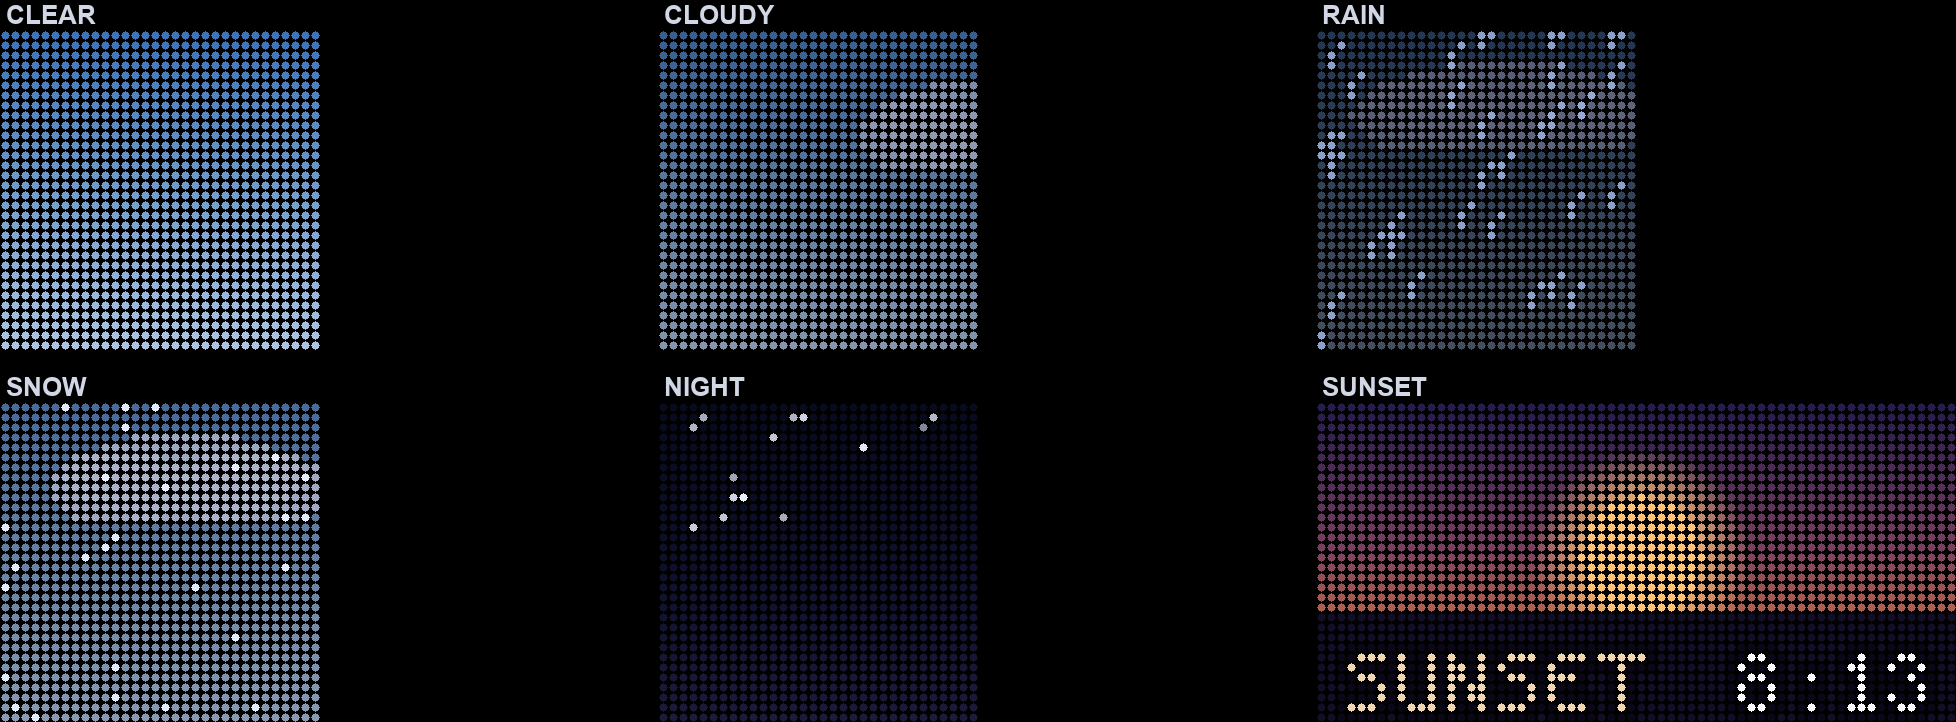
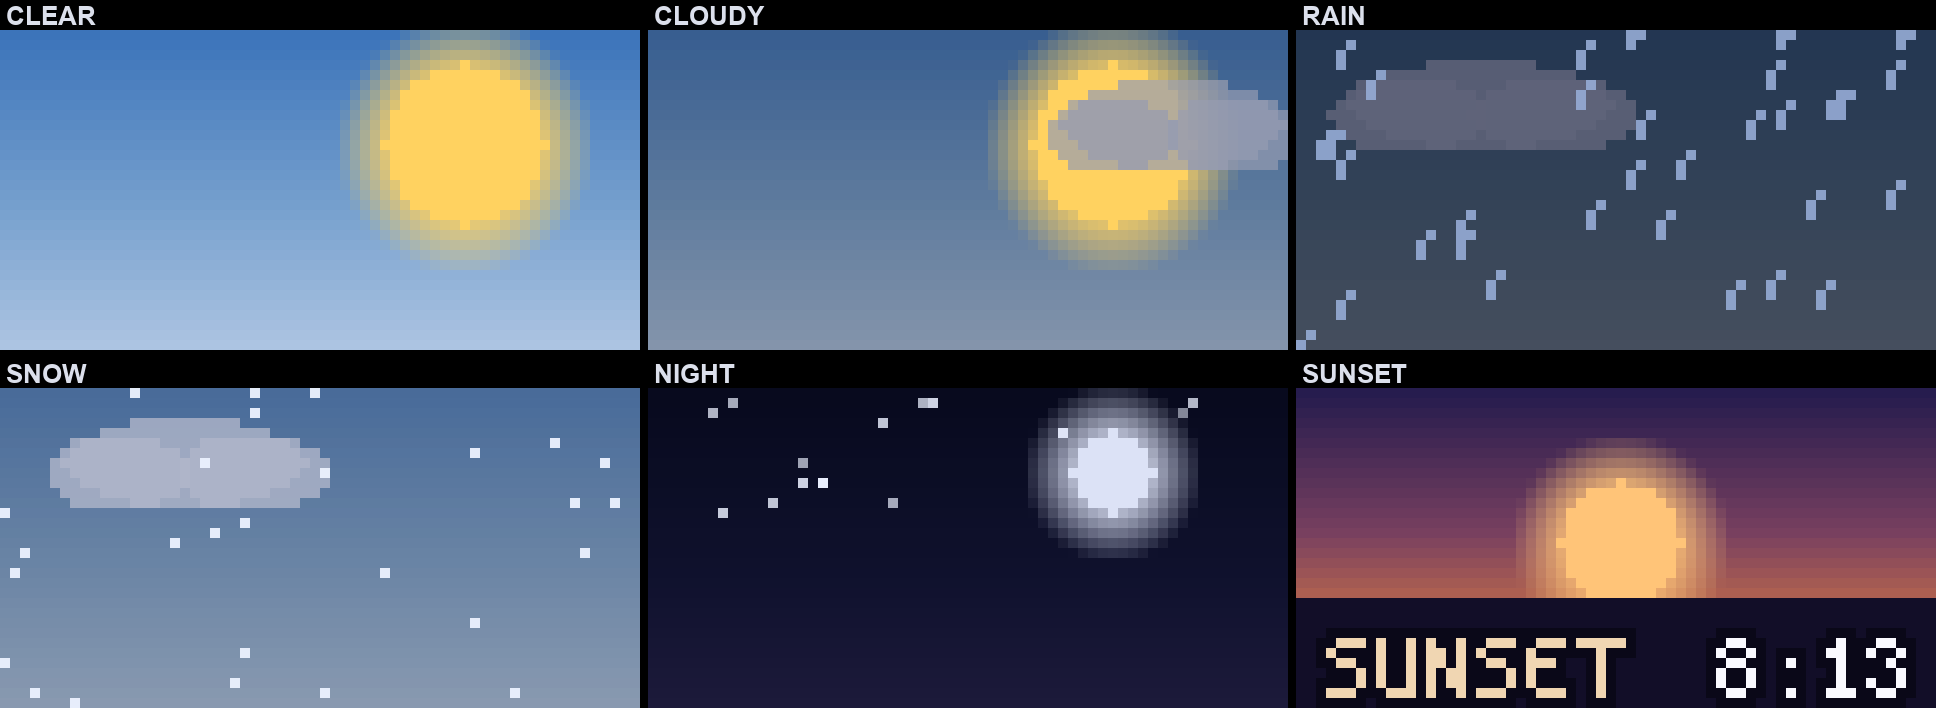
Show a prominent sun in clear/cloudy day scenes; add no-API-keys badge
- Clear/cloudy daytime backgrounds now render a bright golden sun (and the
  sun peeks behind the cloud on cloudy days), so the day scenes read as day.
- Regenerate docs/weather-scenes.png so every cell is full 64x32 and shows
  the sun/moon as the live sign does.
- Add a 'no API keys needed' badge to the README.

diff --git a/src/transithub/display/scenes/weather.py b/src/transithub/display/scenes/weather.py
@@ -45,9 +45,10 @@ class WeatherScene(Scene):
             S.stars(img, frame)
             S.moon(img, 46, 8, 4)
         elif cond in (Condition.CLEAR, Condition.CLOUDY):
-            cx = 44 if self.phase is SunPhase.DAY else 16
-            cy = 8 if self.phase is SunPhase.DAY else 22
-            S.glow_sun(img, cx, cy, 6, intensity=0.9)
+            if self.phase is SunPhase.DAY:   # bright golden sun, high in a blue sky
+                S.glow_sun(img, 46, 11, 8, color=(255, 210, 96), intensity=1.0)
+            else:                            # sunrise / sunset — low, warm sun
+                S.glow_sun(img, 16, 22, 7, intensity=0.95)
         if cond is Condition.CLOUDY:
             S.cloud(img, (20 + frame) % (self.cols + 30) - 8, 9, 22, (150, 156, 178), 0.7)
         elif cond is Condition.RAIN:

diff --git a/README.md b/README.md
@@ -1,6 +1,7 @@
 # TransitHub
 
 [![tests](https://github.com/kyranstar/transithub/actions/workflows/ci.yml/badge.svg)](https://github.com/kyranstar/transithub/actions/workflows/ci.yml)
+[![no API keys needed](https://img.shields.io/badge/API_keys-not_needed-2ea44f)](#)
 
 **Live NYC subway arrivals *and* weather on a Raspberry Pi LED matrix, styled like a real MTA sign.**
 